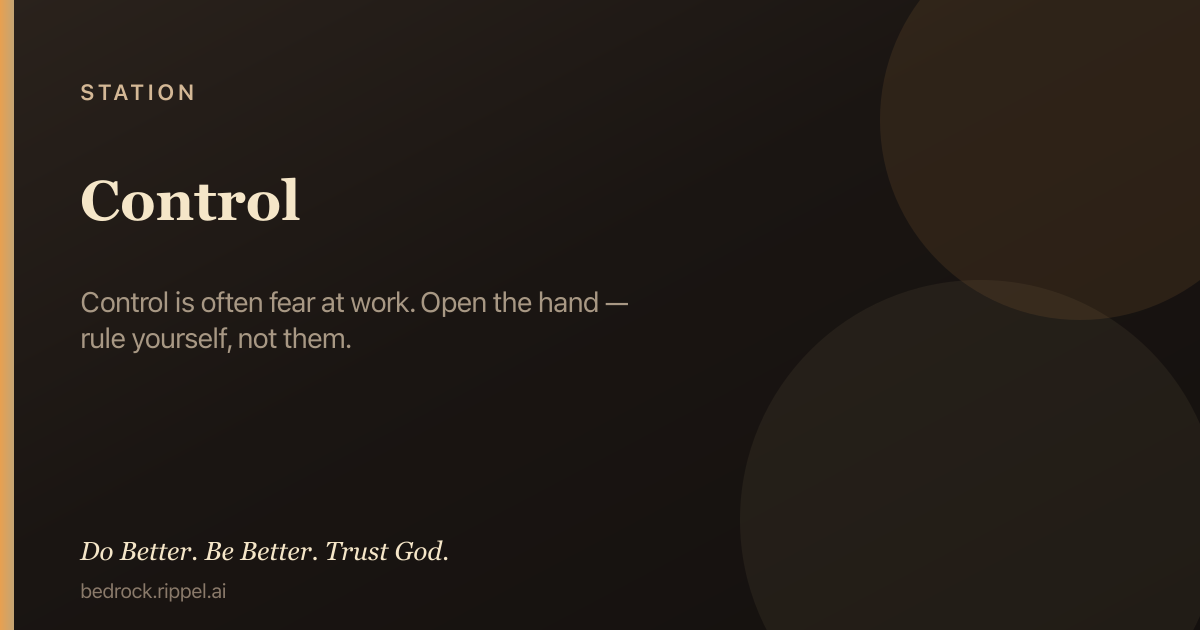
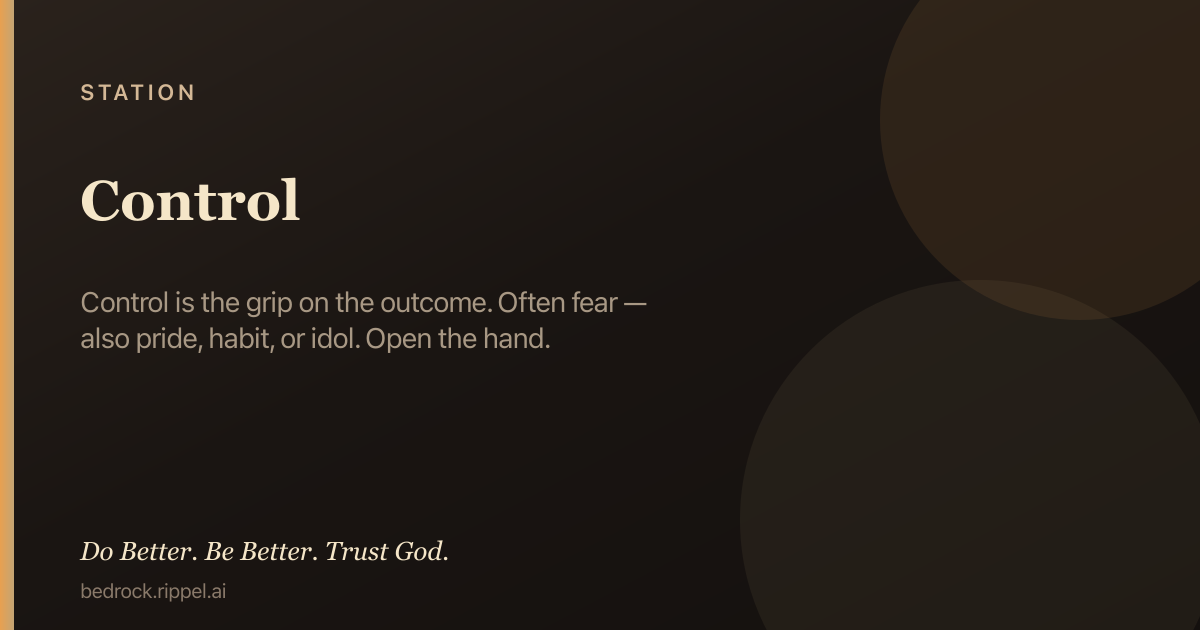
Define control precisely: often fear, not only fear
Control is the grip on the outcome. Drivers: often fear — also pride,
habit, or idol of outcome. Drop absolute “this grip is fear” on Control
and Presence; keep diagnosis honest under fire.

Changed region(s): [[0.0617, 0.4524, 0.5242, 0.573]]

diff --git a/public/c/control.html b/public/c/control.html
@@ -4,7 +4,7 @@
   <meta charset="utf-8" />
   <meta name="viewport" content="width=device-width, initial-scale=1" />
   <title>Control — Bedrock</title>
-  <meta name="description" content="Control is often fear at work. Open the hand — rule yourself, not them. Hold first: Under fire, prayer, then Truth. Do Better. Be Better. Trust God." />
+  <meta name="description" content="Control is the grip on the outcome. Often fear — also pride, habit, or idol. Open the hand. Hold first: Under fire, prayer, then Truth. Do Better. Be…" />
   <meta name="robots" content="index, follow, max-image-preview:large, max-snippet:-1" />
   <meta name="ai-content-declaration" content="human-authored Christian field guide; hold-first: Under fire, Prayer, then Truth" />
   <link rel="canonical" href="https://bedrock.rippel.ai/c/control" />
@@ -12,7 +12,7 @@
   <meta property="og:site_name" content="Bedrock" />
   <meta property="og:type" content="article" />
   <meta property="og:title" content="Control — Bedrock" />
-  <meta property="og:description" content="Control is often fear at work. Open the hand — rule yourself, not them. Hold first: Under fire, prayer, then Truth. Do Better. Be Better. Trust God." />
+  <meta property="og:description" content="Control is the grip on the outcome. Often fear — also pride, habit, or idol. Open the hand. Hold first: Under fire, prayer, then Truth. Do Better. Be…" />
   <meta property="og:url" content="https://bedrock.rippel.ai/c/control" />
   <meta property="og:image" content="https://bedrock.rippel.ai/og/c/control.v7.png" />
   <meta property="og:image:secure_url" content="https://bedrock.rippel.ai/og/c/control.v7.png" />
@@ -22,14 +22,14 @@
   <meta property="og:image:alt" content="Control — Bedrock" />
   <meta name="twitter:card" content="summary_large_image" />
   <meta name="twitter:title" content="Control — Bedrock" />
-  <meta name="twitter:description" content="Control is often fear at work. Open the hand — rule yourself, not them. Hold first: Under fire, prayer, then Truth. Do Better. Be Better. Trust God." />
+  <meta name="twitter:description" content="Control is the grip on the outcome. Often fear — also pride, habit, or idol. Open the hand. Hold first: Under fire, prayer, then Truth. Do Better. Be…" />
   <meta name="twitter:image" content="https://bedrock.rippel.ai/og/c/control.v7.png" />
   <meta name="twitter:image:alt" content="Control — Bedrock" />
   <script type="application/ld+json">
-  {"@context":"https://schema.org","@type":"Article","headline":"Control","description":"Control is often fear at work. Open the hand — rule yourself, not them.","url":"https://bedrock.rippel.ai/c/control","author":{"@type":"Organization","name":"Bedrock","url":"https://bedrock.rippel.ai"},"publisher":{"@type":"Organization","name":"Bedrock","url":"https://bedrock.rippel.ai"},"image":"https://bedrock.rippel.ai/og/c/control.v7.png","inLanguage":"en","isPartOf":{"@type":"WebSite","name":"Bedrock","url":"https://bedrock.rippel.ai"},"articleSection":"First principle · Hold first","keywords":"Control, Bedrock, Under fire, prayer, Scripture"}
+  {"@context":"https://schema.org","@type":"Article","headline":"Control","description":"Control is the grip on the outcome. Often fear — also pride, habit, or idol. Open the hand.","url":"https://bedrock.rippel.ai/c/control","author":{"@type":"Organization","name":"Bedrock","url":"https://bedrock.rippel.ai"},"publisher":{"@type":"Organization","name":"Bedrock","url":"https://bedrock.rippel.ai"},"image":"https://bedrock.rippel.ai/og/c/control.v7.png","inLanguage":"en","isPartOf":{"@type":"WebSite","name":"Bedrock","url":"https://bedrock.rippel.ai"},"articleSection":"First principle · Hold first","keywords":"Control, Bedrock, Under fire, prayer, Scripture"}
   </script>
   <script type="application/ld+json">
-  {"@context":"https://schema.org","@type":"HowTo","name":"Use Control under fire (Bedrock hold-first)","description":"Open this chamber for the next right hold: Under fire first, then Prayer, then Truth when you can read.","step":[{"@type":"HowToStep","position":1,"name":"Under fire","text":"Control is often fear at work. Name the fear — then open the hand. If you must hold the outcome, it has become a god. Love them; do not let their choices rule your peace. Rule yourself, not them. Do your part. Leave the rest to God."},{"@type":"HowToStep","position":2,"name":"Prayer","text":"Father, this grip is fear. I release control. Direct my path. Amen."},{"@type":"HowToStep","position":3,"name":"Truth","text":"When capacity returns, read the Scripture-rooted body on this page."}],"url":"https://bedrock.rippel.ai/c/control"}
+  {"@context":"https://schema.org","@type":"HowTo","name":"Use Control under fire (Bedrock hold-first)","description":"Open this chamber for the next right hold: Under fire first, then Prayer, then Truth when you can read.","step":[{"@type":"HowToStep","position":1,"name":"Under fire","text":"Control grips the outcome. Often fear — also pride, habit, or idol. Name the driver. Open the hand. If you must hold the outcome, it has become a god. Love them; do not let their choices rule your peace. Rule yourself, not them. Do your part. Leave the rest to God."},{"@type":"HowToStep","position":2,"name":"Prayer","text":"Father, I release this grip — fear, pride, or idol. Direct my path. Amen."},{"@type":"HowToStep","position":3,"name":"Truth","text":"When capacity returns, read the Scripture-rooted body on this page."}],"url":"https://bedrock.rippel.ai/c/control"}
   </script>
   <script>
 (function(){
@@ -206,7 +206,7 @@
         <header class="chamber-header">
           <p class="chamber-kicker">First principle</p>
           <h1 class="chamber-title">Control</h1>
-          <p class="chamber-summary">Control is often fear at work. Open the hand — rule yourself, not them.</p>
+          <p class="chamber-summary">Control is the grip on the outcome. Often fear — also pride, habit, or idol. Open the hand.</p>
         </header>
         <nav class="nav" aria-label="Chamber actions">
           <a class="primary" href="/?c=control">Open in field guide</a>
@@ -218,21 +218,21 @@
           <section class="field-layer field-hacks" aria-labelledby="fire">
             <h2 id="fire" class="field-layer-label">Under fire</h2>
             <p class="field-layer-hint">The next right hold — walk this hour.</p>
-            <ul class="field-list field-hacks"><li>Control is often fear at work. Name the fear — then open the hand.</li>
+            <ul class="field-list field-hacks"><li>Control grips the outcome. Often fear — also pride, habit, or idol. Name the driver. Open the hand.</li>
 <li>If you must hold the outcome, it has become a god. Love them; do not let their choices rule your peace.</li>
 <li>Rule yourself, not them. Do your part. Leave the rest to God.</li></ul>
           </section>
           <section class="field-layer field-prayers" aria-labelledby="prayer">
             <h2 id="prayer" class="field-layer-label">Prayer</h2>
             <p class="field-layer-hint">When you do not have the words.</p>
-            <ul class="field-list prayer-list"><li class="prayer-item">Father, this grip is fear. I release control. Direct my path. Amen.</li></ul>
+            <ul class="field-list prayer-list"><li class="prayer-item">Father, I release this grip — fear, pride, or idol. Direct my path. Amen.</li></ul>
           </section>
         </div>
       </div>
       <section class="field-layer field-truth-depth" aria-labelledby="truth">
         <h2 id="truth" class="field-layer-label">Truth</h2>
         <p class="field-layer-hint">When you can read deeper — Scripture-rooted steel.</p>
-        <div class="chamber-body"><p class="chamber-paragraph">When the grip tightens, name the driver: control is often fear at work. Name the fear. Then open the hand and leave the outcome to the Lord.</p>
+        <div class="chamber-body"><p class="chamber-paragraph">Control is the grip that tries to secure the outcome — people, timeline, certainty. It is often fear at work; pride, habit, and the idol of outcome can drive it too. Name the driver. Open the hand. Leave the rest to the Lord.</p>
 <p class="chamber-paragraph">Trust in the Lord with all your heart, and do not lean on your own understanding. In all your ways acknowledge Him, and He will make straight your paths.</p>
 <p class="chamber-paragraph">Be still, and know that I am God. I will be exalted among the nations, I will be exalted in the earth!</p>
 <p class="chamber-paragraph">The fruit of the Spirit is love, joy, peace, patience, kindness, goodness, faithfulness, gentleness, self-control; against such things there is no law.</p>

diff --git a/public/c/presence-without-control.html b/public/c/presence-without-control.html
@@ -29,7 +29,7 @@
   {"@context":"https://schema.org","@type":"Article","headline":"Presence Without Control","description":"Relax. Be present. Don’t take or force control of the present or the future.","url":"https://bedrock.rippel.ai/c/presence-without-control","author":{"@type":"Organization","name":"Bedrock","url":"https://bedrock.rippel.ai"},"publisher":{"@type":"Organization","name":"Bedrock","url":"https://bedrock.rippel.ai"},"image":"https://bedrock.rippel.ai/og/c/presence-without-control.v7.png","inLanguage":"en","isPartOf":{"@type":"WebSite","name":"Bedrock","url":"https://bedrock.rippel.ai"},"articleSection":"First principle · Hold first","keywords":"Presence Without Control, Bedrock, Under fire, prayer, Scripture"}
   </script>
   <script type="application/ld+json">
-  {"@context":"https://schema.org","@type":"HowTo","name":"Use Presence Without Control under fire (Bedrock hold-first)","description":"Open this chamber for the next right hold: Under fire first, then Prayer, then Truth when you can read.","step":[{"@type":"HowToStep","position":1,"name":"Under fire","text":"Relax. Be present — listen, wait for responses, talk less; don’t form a reply while they are speaking. Don’t force the present or the future — that grip is often fear. Just exist in the moment; the future is unknown. When the urge hits: “This is the old hook.” Capture it to Christ. Next right thing in front of you."},{"@type":"HowToStep","position":2,"name":"Prayer","text":"Father, this force is fear. I release this moment and the unknown. I am present under You. Amen."},{"@type":"HowToStep","position":3,"name":"Truth","text":"When capacity returns, read the Scripture-rooted body on this page."}],"url":"https://bedrock.rippel.ai/c/presence-without-control"}
+  {"@context":"https://schema.org","@type":"HowTo","name":"Use Presence Without Control under fire (Bedrock hold-first)","description":"Open this chamber for the next right hold: Under fire first, then Prayer, then Truth when you can read.","step":[{"@type":"HowToStep","position":1,"name":"Under fire","text":"Relax. Be present — listen, wait for responses, talk less; don’t form a reply while they are speaking. Don’t force the present or the future — that is control (often fear, not only fear). Exist in the moment; the future is unknown. When the urge hits: “This is the old hook.” Capture it to Christ. Next right thing in front of you."},{"@type":"HowToStep","position":2,"name":"Prayer","text":"Father, I release this grip. I am present under You. Amen."},{"@type":"HowToStep","position":3,"name":"Truth","text":"When capacity returns, read the Scripture-rooted body on this page."}],"url":"https://bedrock.rippel.ai/c/presence-without-control"}
   </script>
   <script>
 (function(){
@@ -219,20 +219,20 @@
             <h2 id="fire" class="field-layer-label">Under fire</h2>
             <p class="field-layer-hint">The next right hold — walk this hour.</p>
             <ul class="field-list field-hacks"><li>Relax. Be present — listen, wait for responses, talk less; don’t form a reply while they are speaking.</li>
-<li>Don’t force the present or the future — that grip is often fear. Just exist in the moment; the future is unknown.</li>
+<li>Don’t force the present or the future — that is control (often fear, not only fear). Exist in the moment; the future is unknown.</li>
 <li>When the urge hits: “This is the old hook.” Capture it to Christ. Next right thing in front of you.</li></ul>
           </section>
           <section class="field-layer field-prayers" aria-labelledby="prayer">
             <h2 id="prayer" class="field-layer-label">Prayer</h2>
             <p class="field-layer-hint">When you do not have the words.</p>
-            <ul class="field-list prayer-list"><li class="prayer-item">Father, this force is fear. I release this moment and the unknown. I am present under You. Amen.</li></ul>
+            <ul class="field-list prayer-list"><li class="prayer-item">Father, I release this grip. I am present under You. Amen.</li></ul>
           </section>
         </div>
       </div>
       <section class="field-layer field-truth-depth" aria-labelledby="truth">
         <h2 id="truth" class="field-layer-label">Truth</h2>
         <p class="field-layer-hint">When you can read deeper — Scripture-rooted steel.</p>
-        <div class="chamber-body"><p class="chamber-paragraph">Forcing the present or the future is often fear wearing control. Presence is not control — show up cleanly; do not manage the outcome.</p>
+        <div class="chamber-body"><p class="chamber-paragraph">Forcing the present or the future is control — often fear, not always only fear. Presence is not control. Show up cleanly; do not manage the outcome.</p>
 <p class="chamber-paragraph">Be still, and know that I am God. I will be exalted among the nations, I will be exalted in the earth!</p>
 <p class="chamber-paragraph">Know this, my beloved brothers: let every person be quick to hear, slow to speak, slow to anger.</p>
 <p class="chamber-paragraph">Do not be anxious about anything, but in everything by prayer and supplication with thanksgiving let your requests be made known to God.</p>

diff --git a/public/c/control.md b/public/c/control.md
@@ -1,22 +1,22 @@
 # Control
 
-> Control is often fear at work. Open the hand — rule yourself, not them.
+> Control is the grip on the outcome. Often fear — also pride, habit, or idol. Open the hand.
 
 *Station · Hold first (Under fire → Prayer → Truth) · Bedrock · https://bedrock.rippel.ai/c/control*
 
 ## Under fire
 
-- Control is often fear at work. Name the fear — then open the hand.
+- Control grips the outcome. Often fear — also pride, habit, or idol. Name the driver. Open the hand.
 - If you must hold the outcome, it has become a god. Love them; do not let their choices rule your peace.
 - Rule yourself, not them. Do your part. Leave the rest to God.
 
 ## Prayer
 
-Father, this grip is fear. I release control. Direct my path. Amen.
+Father, I release this grip — fear, pride, or idol. Direct my path. Amen.
 
 ## Truth
 
-When the grip tightens, name the driver: control is often fear at work. Name the fear. Then open the hand and leave the outcome to the Lord.
+Control is the grip that tries to secure the outcome — people, timeline, certainty. It is often fear at work; pride, habit, and the idol of outcome can drive it too. Name the driver. Open the hand. Leave the rest to the Lord.
 
 Trust in the Lord with all your heart, and do not lean on your own understanding. In all your ways acknowledge Him, and He will make straight your paths.
 

diff --git a/public/c/README.md b/public/c/README.md
@@ -50,7 +50,7 @@ Canonical field-guide pages for crawlers and answer engines.
 - [Regret](https://bedrock.rippel.ai/c/regret) — Godly grief leads to life; worldly grief leads to death.
 - [Addiction](https://bedrock.rippel.ai/c/addiction) — If it masters you, it is not free — walk by the Spirit; put the flesh to death.
 - [Jealousy](https://bedrock.rippel.ai/c/jealousy) — If it demands control of another, it is not love — walk by the Spirit; put the flesh to death.
-- [Control](https://bedrock.rippel.ai/c/control) — Control is often fear at work. Open the hand — rule yourself, not them.
+- [Control](https://bedrock.rippel.ai/c/control) — Control is the grip on the outcome. Often fear — also pride, habit, or idol. Open the hand.
 - [Presence Without Control](https://bedrock.rippel.ai/c/presence-without-control) — Relax. Be present. Don’t take or force control of the present or the future.
 - [Renew Your Mind](https://bedrock.rippel.ai/c/renew-your-mind) — Transformed mind.
 - [Take Every Thought Captive](https://bedrock.rippel.ai/c/take-every-thought-captive) — Divine power demolishes strongholds — take every thought captive to Christ.

diff --git a/public/c/presence-without-control.md b/public/c/presence-without-control.md
@@ -7,16 +7,16 @@
 ## Under fire
 
 - Relax. Be present — listen, wait for responses, talk less; don’t form a reply while they are speaking.
-- Don’t force the present or the future — that grip is often fear. Just exist in the moment; the future is unknown.
+- Don’t force the present or the future — that is control (often fear, not only fear). Exist in the moment; the future is unknown.
 - When the urge hits: “This is the old hook.” Capture it to Christ. Next right thing in front of you.
 
 ## Prayer
 
-Father, this force is fear. I release this moment and the unknown. I am present under You. Amen.
+Father, I release this grip. I am present under You. Amen.
 
 ## Truth
 
-Forcing the present or the future is often fear wearing control. Presence is not control — show up cleanly; do not manage the outcome.
+Forcing the present or the future is control — often fear, not always only fear. Presence is not control. Show up cleanly; do not manage the outcome.
 
 Be still, and know that I am God. I will be exalted among the nations, I will be exalted in the earth!
 

diff --git a/public/og/README.md b/public/og/README.md
@@ -9,4 +9,4 @@ Version: v7 (path-versioned for social cache bust).
 - Origin (About): `/og/origin.png`
 - Sealed poem (tall): `/og/testimony-poem.png`
 
-Cards: 110 · ~6329 KB total
+Cards: 110 · ~6332 KB total
